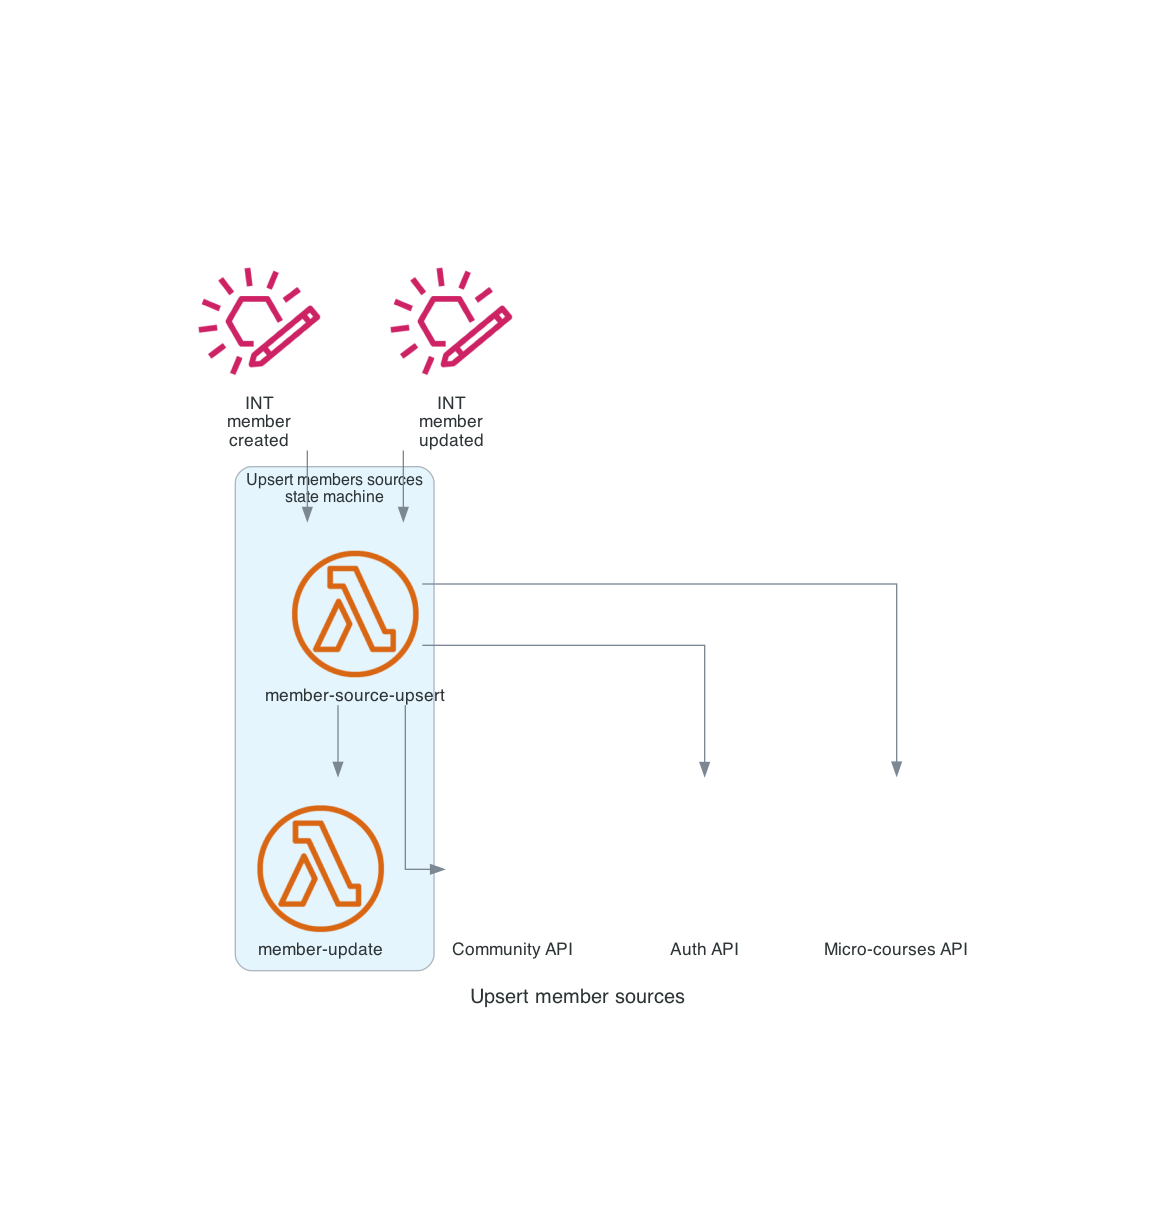
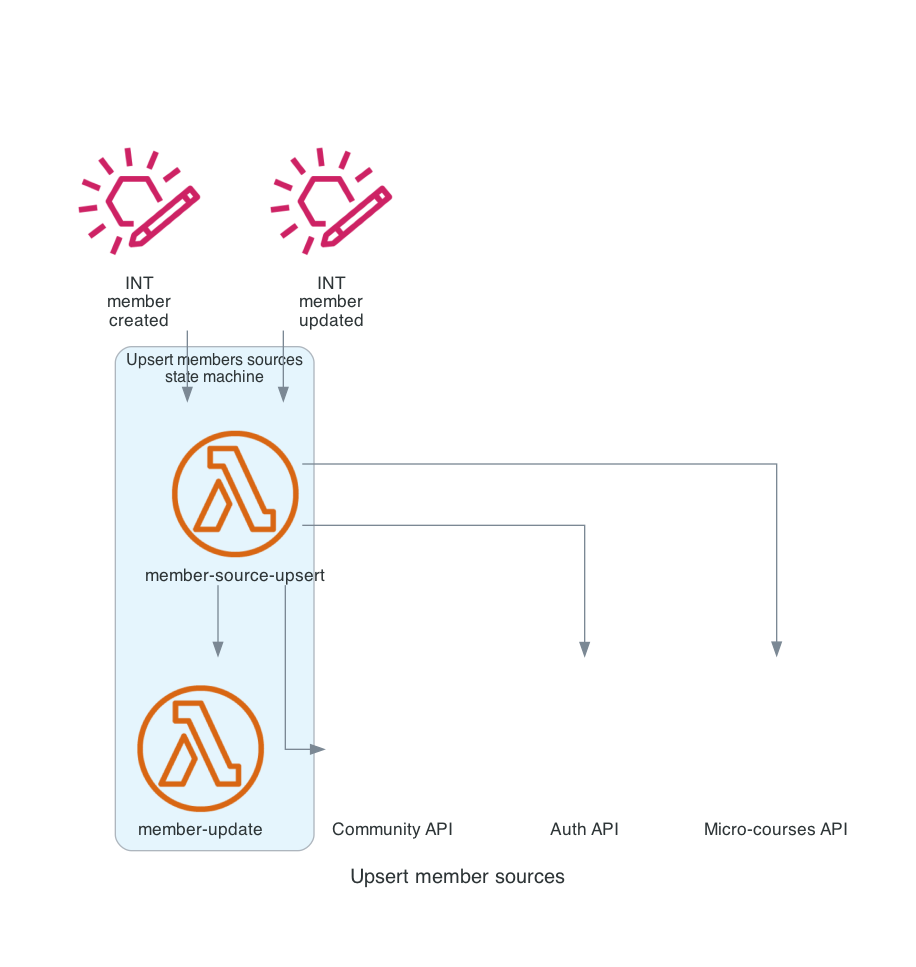
docs: :memo: Documenting all of the key flows

diff --git a/apps/education/courses/diagrams/participant-upsert.py b/apps/education/courses/diagrams/participant-upsert.py
@@ -4,11 +4,13 @@ from diagrams.aws.integration import EventbridgeCustomEventBusResource
 from diagrams.aws.database import Dynamodb
 
 graph_attr = {
-    "overlap": "false"
+    "pad": "0.75",
 }
 
 with Diagram("Upsert participant", show=False, filename="participant-upsert", direction="TB", graph_attr=graph_attr):
-  ext_event_bus = EventbridgeCustomEventBusResource("EXT\nparticipant\ncreated")
+  ext_event_bus_participant_created = EventbridgeCustomEventBusResource("EXT\nparticipant\ncreated")
+  ext_event_bus_participant_updated = EventbridgeCustomEventBusResource("EXT\nparticipant\nupdated")
+  lambda_participant_upsert = LambdaFunction("participant-upsert")
 
   with Cluster("Upsert participant state machine"):
     int_event_bus_participant_created = EventbridgeCustomEventBusResource("INT\nparticipant\ncreated")
@@ -24,7 +26,10 @@ with Diagram("Upsert participant", show=False, filename="participant-upsert", di
     ddb_courses = Dynamodb("courses")
     ddb_members = Dynamodb("members")
 
-  ext_event_bus >> lambda_participant_find
+  ext_event_bus_participant_created >> lambda_participant_find
+  ext_event_bus_participant_updated >> lambda_participant_find
+  lambda_participant_upsert >> lambda_participant_find
+
   lambda_participant_find >> lambda_participant_update
   lambda_participant_update >> int_event_bus_participant_updated
 

diff --git a/apps/api/admin/diagrams/api-admin.py b/apps/api/admin/diagrams/api-admin.py
@@ -2,5 +2,9 @@ from diagrams import Diagram
 from diagrams.aws.network import APIGatewayEndpoint
 from diagrams.aws.integration import EventbridgeCustomEventBusResource
 
-with Diagram("API Admin", show=False, direction="TB", filename="api-admin"):
+graph_attr = {
+  "pad": "0.75",
+}
+
+with Diagram("API Admin", show=False, direction="TB", filename="api-admin", graph_attr=graph_attr):
   APIGatewayEndpoint("/hook/external-event/\n(course|participant|member)") >> EventbridgeCustomEventBusResource("EXT\n(course|participant|member)\n(created|updated)")

diff --git a/apps/education/courses/diagrams/participants-upsert.py b/apps/education/courses/diagrams/participants-upsert.py
@@ -3,7 +3,7 @@ from diagrams.aws.compute import LambdaFunction
 from diagrams.aws.integration import EventbridgeCustomEventBusResource, SimpleQueueServiceSqs, StepFunctions
 
 graph_attr = {
-    "overlap": "false"
+    "pad": "0.75",
 }
 
 with Diagram("Upsert participants", show=False, filename="participants-upsert", direction="TB", graph_attr=graph_attr):

diff --git a/apps/core/groups/diagrams/course-group-member-upsert.py b/apps/core/groups/diagrams/course-group-member-upsert.py
@@ -4,7 +4,7 @@ from diagrams.aws.integration import EventbridgeCustomEventBusResource
 from diagrams.aws.database import Dynamodb
 
 graph_attr = {
-    "overlap": "false"
+    "pad": "0.75",
 }
 
 with Diagram("Create/update course group member", show=False, filename="course-group-member-upsert", direction="TB", graph_attr=graph_attr):

diff --git a/apps/core/groups/diagrams/group-member-sources-upsert.py b/apps/core/groups/diagrams/group-member-sources-upsert.py
@@ -4,7 +4,7 @@ from diagrams.aws.compute import LambdaFunction
 from diagrams.aws.integration import EventbridgeCustomEventBusResource
 
 graph_attr = {
-    "overlap": "false"
+    "pad": "0.75",
 }
 
 with Diagram("Upsert group member sources", show=False, filename="group-member-sources-upsert", direction="TB", graph_attr=graph_attr):

diff --git a/apps/core/groups/diagrams/group-members-update.py b/apps/core/groups/diagrams/group-members-update.py
@@ -4,7 +4,7 @@ from diagrams.aws.integration import EventbridgeCustomEventBusResource, SimpleQu
 from diagrams.aws.database import Dynamodb
 
 graph_attr = {
-    "overlap": "false"
+    "pad": "0.75",
 }
 
 with Diagram("Update group members", show=False, filename="group-members-update", direction="TB", graph_attr=graph_attr):

diff --git a/apps/education/courses/diagrams/participants-update.py b/apps/education/courses/diagrams/participants-update.py
@@ -4,7 +4,7 @@ from diagrams.aws.integration import EventbridgeCustomEventBusResource, SimpleQu
 from diagrams.aws.database import Dynamodb
 
 graph_attr = {
-    "overlap": "false"
+    "pad": "0.75",
 }
 
 with Diagram("Update participants", show=False, filename="participants-update", direction="TB", graph_attr=graph_attr):

diff --git a/apps/core/members/diagrams/member-sources-upsert.py b/apps/core/members/diagrams/member-sources-upsert.py
@@ -4,7 +4,7 @@ from diagrams.aws.compute import LambdaFunction
 from diagrams.aws.integration import EventbridgeCustomEventBusResource
 
 graph_attr = {
-    "overlap": "false"
+    "pad": "0.75",
 }
 
 with Diagram("Upsert member sources", show=False, filename="member-sources-upsert", direction="TB", graph_attr=graph_attr):

diff --git a/apps/core/groups/diagrams/course-group-upsert.py b/apps/core/groups/diagrams/course-group-upsert.py
@@ -4,7 +4,7 @@ from diagrams.aws.integration import EventbridgeCustomEventBusResource
 from diagrams.aws.database import Dynamodb
 
 graph_attr = {
-    "overlap": "false"
+    "pad": "0.75",
 }
 
 with Diagram("Create/update course group", show=False, filename="course-group-upsert", direction="TB", graph_attr=graph_attr):

diff --git a/apps/core/groups/diagrams/group-sources-upsert.py b/apps/core/groups/diagrams/group-sources-upsert.py
@@ -4,7 +4,7 @@ from diagrams.aws.compute import LambdaFunction
 from diagrams.aws.integration import EventbridgeCustomEventBusResource
 
 graph_attr = {
-    "overlap": "false"
+    "pad": "0.75",
 }
 
 with Diagram("Upsert group sources", show=False, filename="group-sources-upsert", direction="TB", graph_attr=graph_attr):

diff --git a/apps/core/members/diagrams/member-create.py b/apps/core/members/diagrams/member-create.py
@@ -4,7 +4,7 @@ from diagrams.aws.integration import EventbridgeCustomEventBusResource, StepFunc
 from diagrams.aws.database import Dynamodb
 
 graph_attr = {
-    "overlap": "false"
+    "pad": "0.75",
 }
 
 with Diagram("Create member", show=False, filename="member-create", direction="TB", graph_attr=graph_attr):

diff --git a/apps/core/members/diagrams/member-update.py b/apps/core/members/diagrams/member-update.py
@@ -4,7 +4,7 @@ from diagrams.aws.integration import EventbridgeCustomEventBusResource
 from diagrams.aws.database import Dynamodb
 
 graph_attr = {
-    "overlap": "false"
+    "pad": "0.75",
 }
 
 with Diagram("Update member", show=False, filename="member-update", direction="TB", graph_attr=graph_attr):
